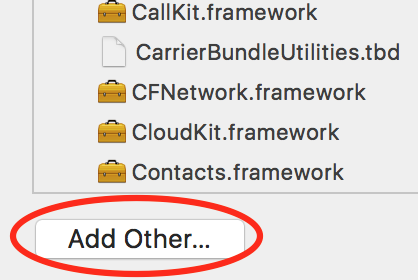
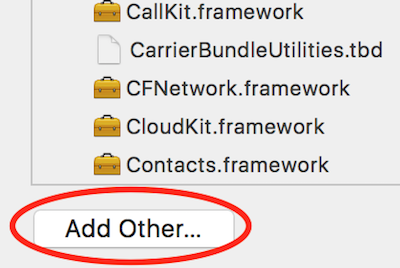
Updated the readme file

diff --git a/README.md b/README.md
@@ -1,2 +1,101 @@
 # CoreGraph
-Core components for a graph structure with a dijkstra wayfinding algorithm
+
+Core Graph is a framework for creating a generic, bidirectional and weighted graph consisting of nodes and edges. It’s also able to find the shortest path between two nodes using a simple Dijkstra algorithm. It is written in Swift 4 using Xcode 9.2. It is fully documented and provides unit tests with a complex graph.
+
+## Installation
+Clone the repository and add the project file to the *Linked Frameworks and Libraries* section in your target’s general options. Press the plus button and then the *Add other* button to select the *CoreGraph* project file. It will be added to your project in a separate *Frameworks* group.
+
+![Linked Frameworks](https://raw.githubusercontent.com/benboecker/CoreGraph/master/readme_images/linked_frameworks.png)
+![Add other](https://raw.githubusercontent.com/benboecker/CoreGraph/master/readme_images/add_other.png)
+
+Add the framework to the *Embedded Binaries* section in your target’s general options, selecting the framework file from the just added *CoreGraph* project.
+
+![Embedded Binaries](https://raw.githubusercontent.com/benboecker/CoreGraph/master/readme_images/embedded_binaries.png)
+![Select Framework](https://raw.githubusercontent.com/benboecker/CoreGraph/master/readme_images/select_framework.png)
+
+## Usage
+
+In the source file where you want to use the graph, import the CoreGraph framework:
+
+```
+import CoreGraph
+```
+
+### `Graph<Element: Hashable>`
+Instantiate a graph with a constrained type that must implement the `Hashable` protocol.
+
+```
+var graph = Graph<String>()
+```
+
+A `Graph` is a struct, meaning that if you want to add nodes to it you have to declare it as a `var`. You can add nodes via the `addNode(with: _)` function, that returns a `Result<Element>` value, telling you if the node was added to the graph or if something went wrong. For example if the node already exists in the graph, the result will be unexpected and gives you an `nodeAlreadyExists` error. The result is discardable and doesn't have to be used.
+
+```
+let result = graph.addNode(with: "A")
+result.onExpected { node in
+	print(node) // "A"
+}
+
+graph.addNode(with: "B") // no warning
+```
+
+You add edges from one node to another with the `addEdge(from: _, to: _, weight: _)` function. This also returns a `Result` that gives you insight about possible errors. An edge doesn't get added twice for example. Again, this result is discardable.
+
+```
+let result = graph.addEdge(from: "A", to: "B", weight: 20.0)
+print(result.isExpected) // true
+
+let wrong = graph.addEdge(from: "A", to: "B", weight: 30.0)
+print(result.error!) // .edgeAlreadyExists
+``
+
+The shortest path between two nodes is calculated with a Dijkstra algorithm.
+
+```
+var shortestPathResult = graph.shortestPath(from: "A", to: "B")
+```
+
+Again, this uses a `Result` type to tell you if the algorithm found a shortest path or if something went wrong.
+
+```
+shortestPathResult.onExpected { path in
+	print("\(path)") // [A] -20.0- [B]
+}
+
+shortestPathResult = graph.shortestPath(from: "A", to: "C")
+print(shortestPathresult.error!) // .destinationNodeNotFound
+```
+
+The `Graph` also has a function to remove all nodes and edges from it.
+
+```
+graph.clear()
+```
+
+### `Path<Element: Equatable>`
+The expected result from the graph`s `shortestPath` function is a `Path` value that is generic over the node type of the graph. It is implemented as a linked list `enum`, meaning that one segment hold some data and points to the next until it reaches its end.
+
+The public interface of a path has two properties:
+
+`nodeData: [(Element, Double)]`
+
+This is the actual path data with the nodes along the path and the distances to them from the previous node. This means, that the first distance is always 0. In the eample from above this would look like this:
+
+```
+print(path.nodeData) // [("A", 0.0), ("B", 20.0)]
+```
+
+This way you can build up the route the way you like to.
+
+The second property is the total distance of the path, which simply adds up the distances from the `nodeData` property.
+
+```
+print(path.totalWeight) // 20.0
+```
+
+
+
+
+
+
+
